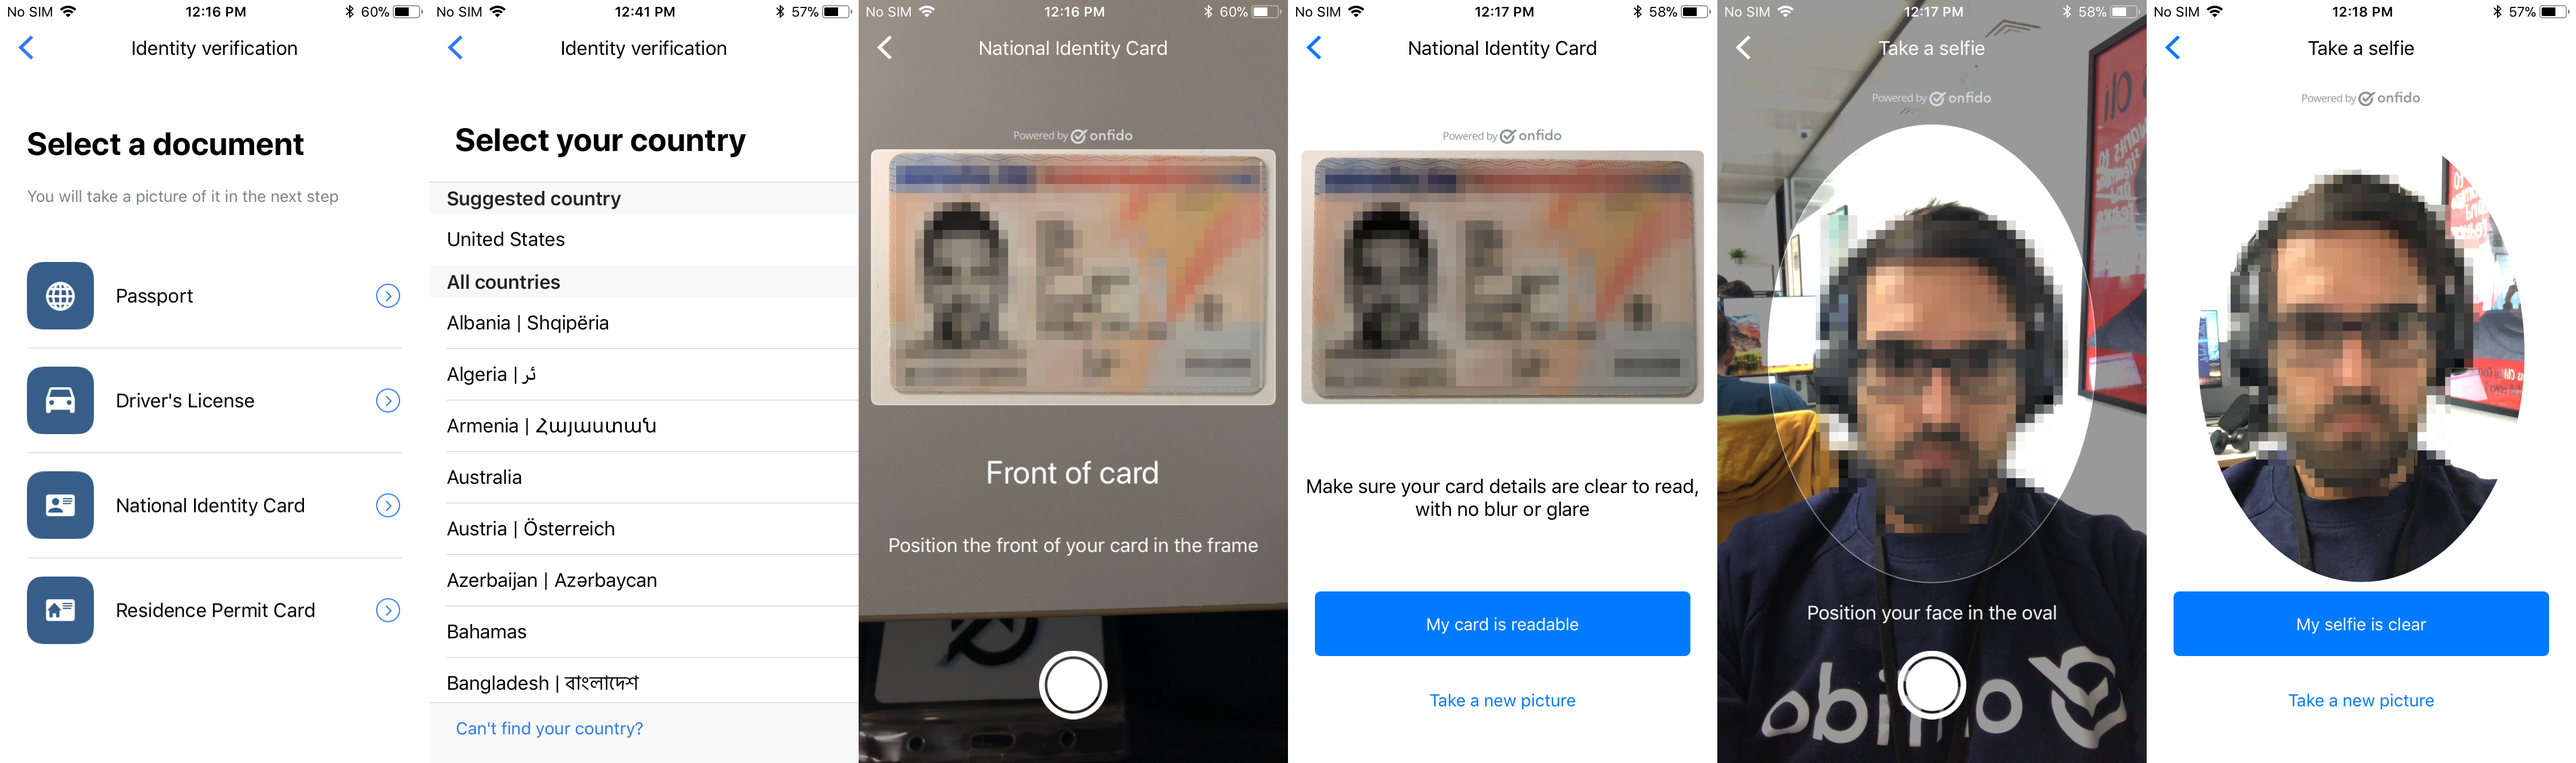
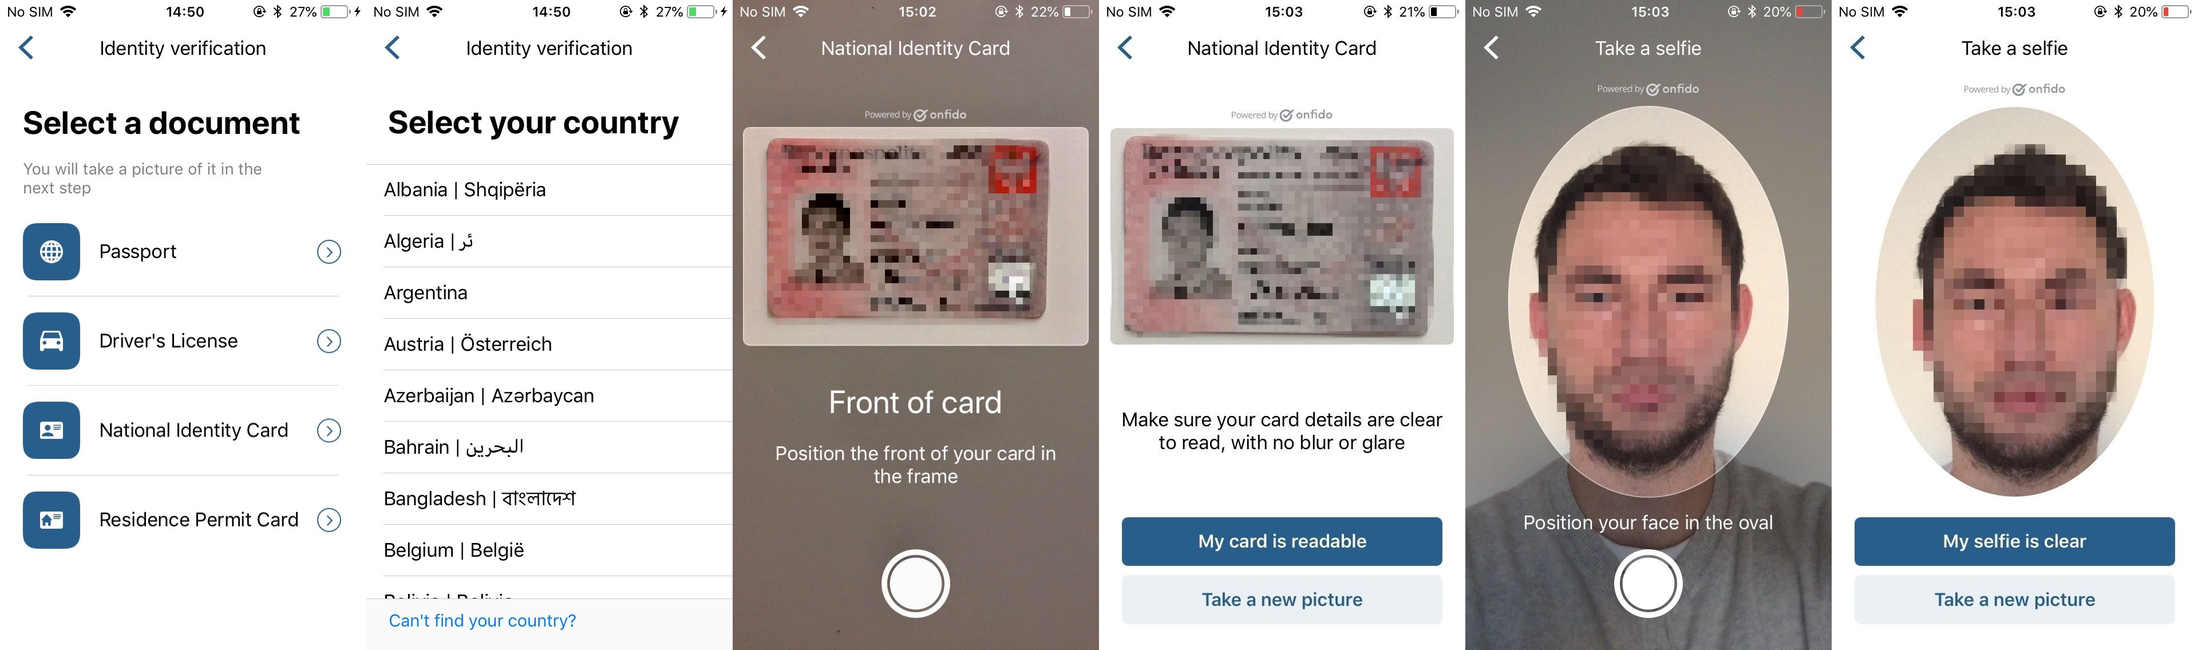
Updated  version

diff --git a/README.md b/README.md
@@ -37,7 +37,7 @@ This SDK provides a drop-in set of screens and tools for iOS applications to all
 
 ## Getting started
 
-* SDK supports iOS 10.0
+* SDK supports iOS 9+
 * SDK supports Swift 3.4 and Swift 4.2
 
 ### 1. Obtaining tokens
@@ -362,8 +362,6 @@ catch let error {
       // do something about it here
     case OnfidoFlowError.microphonePermission:
       // do something about it here
-    case OnfidoFlowError.deviceHasNoCamera:
-      // do something about it here
     default:
       // should not happen, so if it does, log it and let us know
   }
@@ -384,9 +382,6 @@ if (runError) {
             // do something about it here
             break;
         case ONFlowErrorMicrophonePermission:
-            // do something about it here
-            break;
-        case ONFlowErrorDeviceHasNoCamera:
             // do something about it here
             break;
         default:
@@ -493,6 +488,39 @@ NSError *configError = NULL;
 ONFlowConfig *config = [configBuilder buildAndReturnError:&configError];
 ```
 
+### UI customisation
+
+In order to enhance the user experience on the transition between your application and the SDK, you can customise some of the colors used in the SDK flow.
+
+To customise:
+
+#### Swift
+```Swift
+let appearance = Appearance(
+              primaryColor: <DESIRED_UI_COLOR_HERE>,
+              primaryTitleColor: <DESIRED_UI_COLOR_HERE>,
+              primaryBackgroundPressedColor: <DESIRED_UI_COLOR_HERE>,
+              secondaryBackgroundPressedColor: <DESIRED_UI_COLOR_HERE>)
+let configBuilder = OnfidoConfig.builder()
+configBuilder.withAppearance(appearance)
+```
+
+#### Objective-C
+```Objective-C
+ONAppearance *appearance = [[ONAppearance alloc]
+                                initWithPrimaryColor:<DESIRED_UI_COLOR_HERE>
+                                primaryTitleColor:<DESIRED_UI_COLOR_HERE>
+                                primaryBackgroundPressedColor:<DESIRED_UI_COLOR_HERE>
+                                secondaryBackgroundPressedColor:<DESIRED_UI_COLOR_HERE>];
+ONFlowConfigBuilder *configBuilder = [ONFlowConfig builder];
+[configBuilder withAppearance:appearance];
+```
+
+`primaryColor`: Defines the background color of views such as document type icon and capture confirmation buttons and back navigation button.
+`primaryTitleColor`: Defines the text color of labels included in views such as capture confirmation buttons.
+`primaryBackgroundPressedColor`: Defines the background color of capture confirmation buttons when pressed.
+`secondaryBackgroundPressedColor`: Defines the background color of capture cancel buttons when pressed.
+
 ### Localisation
 
 Onfido iOS SDK already comes with out-of-the-box translations for the following locales:
@@ -504,7 +532,7 @@ In case you would like us to add translations for some other locales we don't pr
 
 ### Language customisation
 
-**Note**: 
+**Note**:
 - If the strings translations change it will result in a MINOR version change, therefore you are responsible for testing your translated layout in case you are using this feature. If you want a language translated you can also get in touch with us at [ios-sdk@onfido.com](mailto:ios-sdk@onfido.com).
 - When adding custom translations, please make sure you add the whole set of keys we have on `Localizable.strings` file. In particular, `onfido_locale`, which identifies the current locale being added, must be included. E.g. when strings file added for Russian language, the key `onfido_locale` must have the value `ru` such that it sould look like the following:`"onfido_locale" = "ru";`
 
@@ -587,7 +615,7 @@ You can find the migration guide at [MIGRATION.md](MIGRATION.md) file
 
 ## Licensing
 
-Due to API-design constraints, and to avoid possible conflicts during the integration, we bundle some of our 3rd party dependencies.  For those, we include the licensing information inside our bundle, with the file named `onfido_licenses.json`. 
+Due to API-design constraints, and to avoid possible conflicts during the integration, we bundle some of our 3rd party dependencies.  For those, we include the licensing information inside our bundle, with the file named `onfido_licenses.json`.
 This file contains a summary of our bundled dependencies and all the licensing information required, including links to the relevant license texts contained in the same folder.
 Integrators of our library are then responsible for keeping this information along with their integrations.
 

diff --git a/MIGRATION.md b/MIGRATION.md
@@ -2,6 +2,7 @@
 
 These guides below are provided to ease the transition of existing applications using the Onfido SDK from one version to another that introduces breaking API changes.
 
+* [Onfido iOS SDK 10.1.0 Migration Guide](#onfido-sdk-1010-migration-guide)
 * [Onfido iOS SDK 10.0.0 Migration Guide](#onfido-sdk-1000-migration-guide)
 * [Onfido iOS SDK 9.0.0 Migration Guide](#onfido-sdk-900-migration-guide)
 * [Onfido iOS SDK 8.0.0 Migration Guide](#onfido-sdk-800-migration-guide)
@@ -16,6 +17,8 @@ These guides below are provided to ease the transition of existing applications 
 * [Onfido iOS SDK 4.0.0 Migration Guide](#onfido-sdk-400-migration-guide)
 * [Onfido iOS SDK 3.0.0 Migration Guide](#onfido-sdk-300-migration-guide)
 
+## Onfido iOS SDK 10.1.0 Migration Guide
+
 ## Onfido iOS SDK 10.0.0 Migration Guide
 
 ### Requirements
@@ -28,6 +31,7 @@ These guides below are provided to ease the transition of existing applications 
 - `onfido_privacy_policy_position_doc`
 - `onfido_privacy_policy_avoid_light`
 - `onfido_privacy_policy_terms_extended`
+- `onfido_start`
 
 ## Onfido SDK 9.0.0 Migration Guide
 

diff --git a/CHANGELOG.md b/CHANGELOG.md
@@ -6,6 +6,17 @@ and this project adheres to [Semantic Versioning](http://semver.org/spec/v2.0.0.
 
 **Note**: If the strings translations change it will result in a MINOR version change, therefore you are responsible for testing your translated layout in case you are using custom translations. [More on language localisation](README.md#language-customisation)
 
+## [10.1.0] - 2018-11-14
+
+### Added
+- UI: Managing request timeouts mid flow.
+- Public: Ability to customise buttons and icons colors
+
+### Changed
+- UI: Changed copy on Liveness Intro screen
+- UI: Confirm and cancel buttons redesigned
+- Internal: Updated the map for the supported countries for each document
+
 ## [10.0.0] - 2018-09-13
 
 ### Changed
@@ -41,6 +52,7 @@ and this project adheres to [Semantic Versioning](http://semver.org/spec/v2.0.0.
 
 ### Changed
 - Public: Flow now dismisses upon completion unless shouldDismissFlowOnCompletion set to false
+- Internal: Changed our analytics solution from an external provider to an in-house service
 
 ### Removed
 - Public: SDK no longer supports iOS 8. Now iOS 9+.
